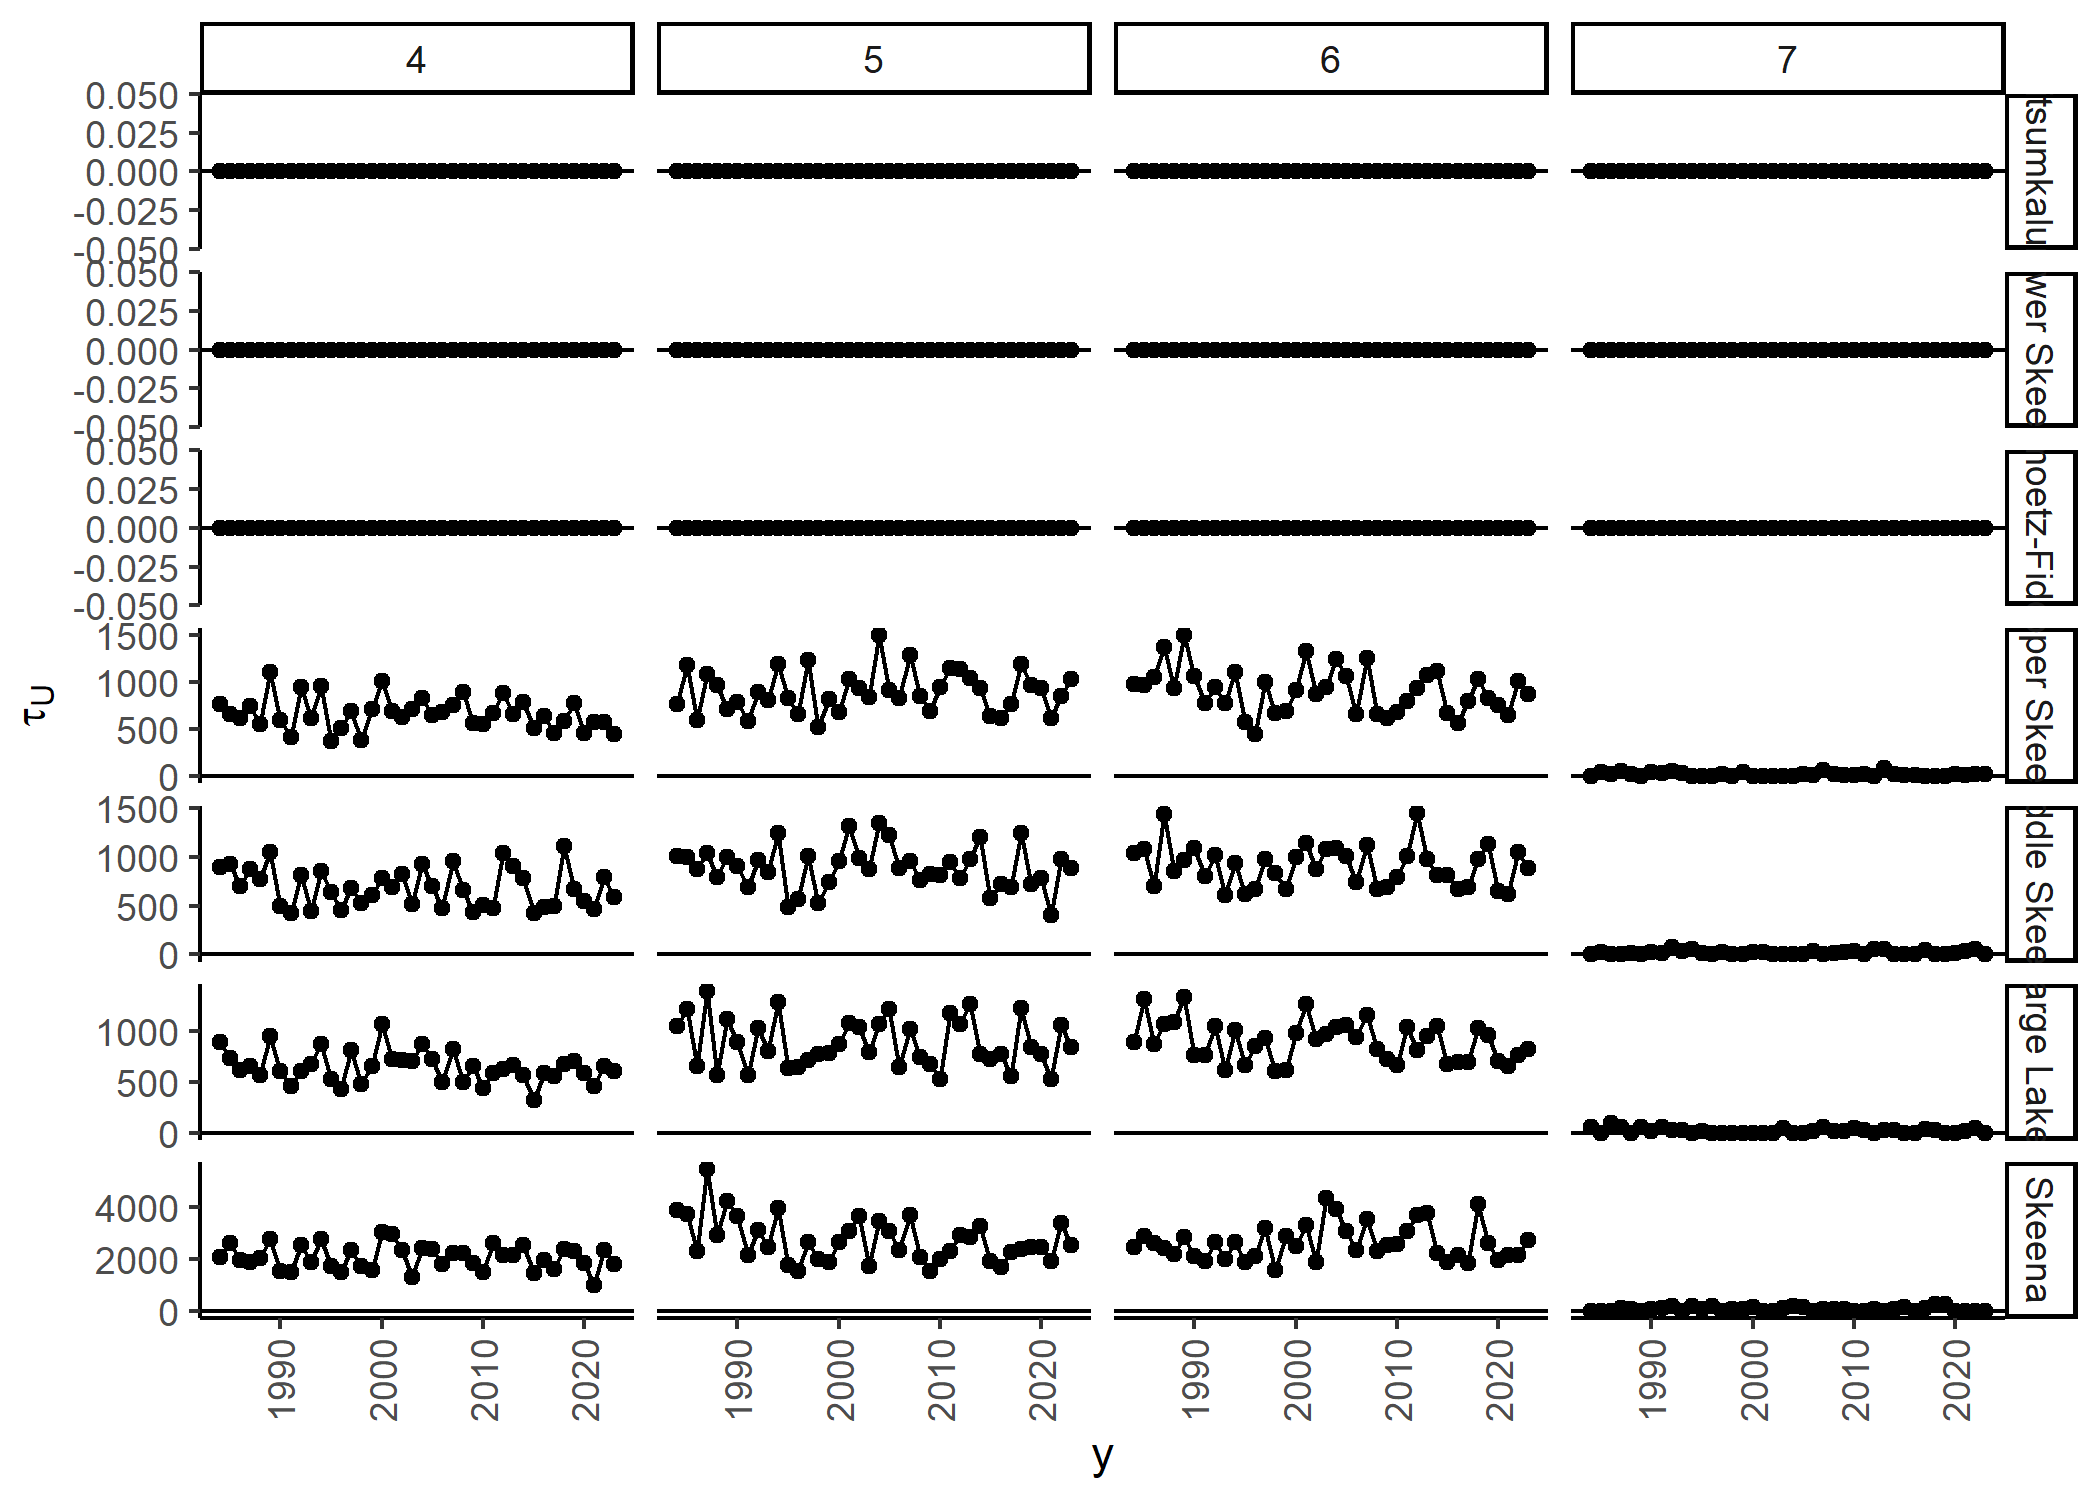
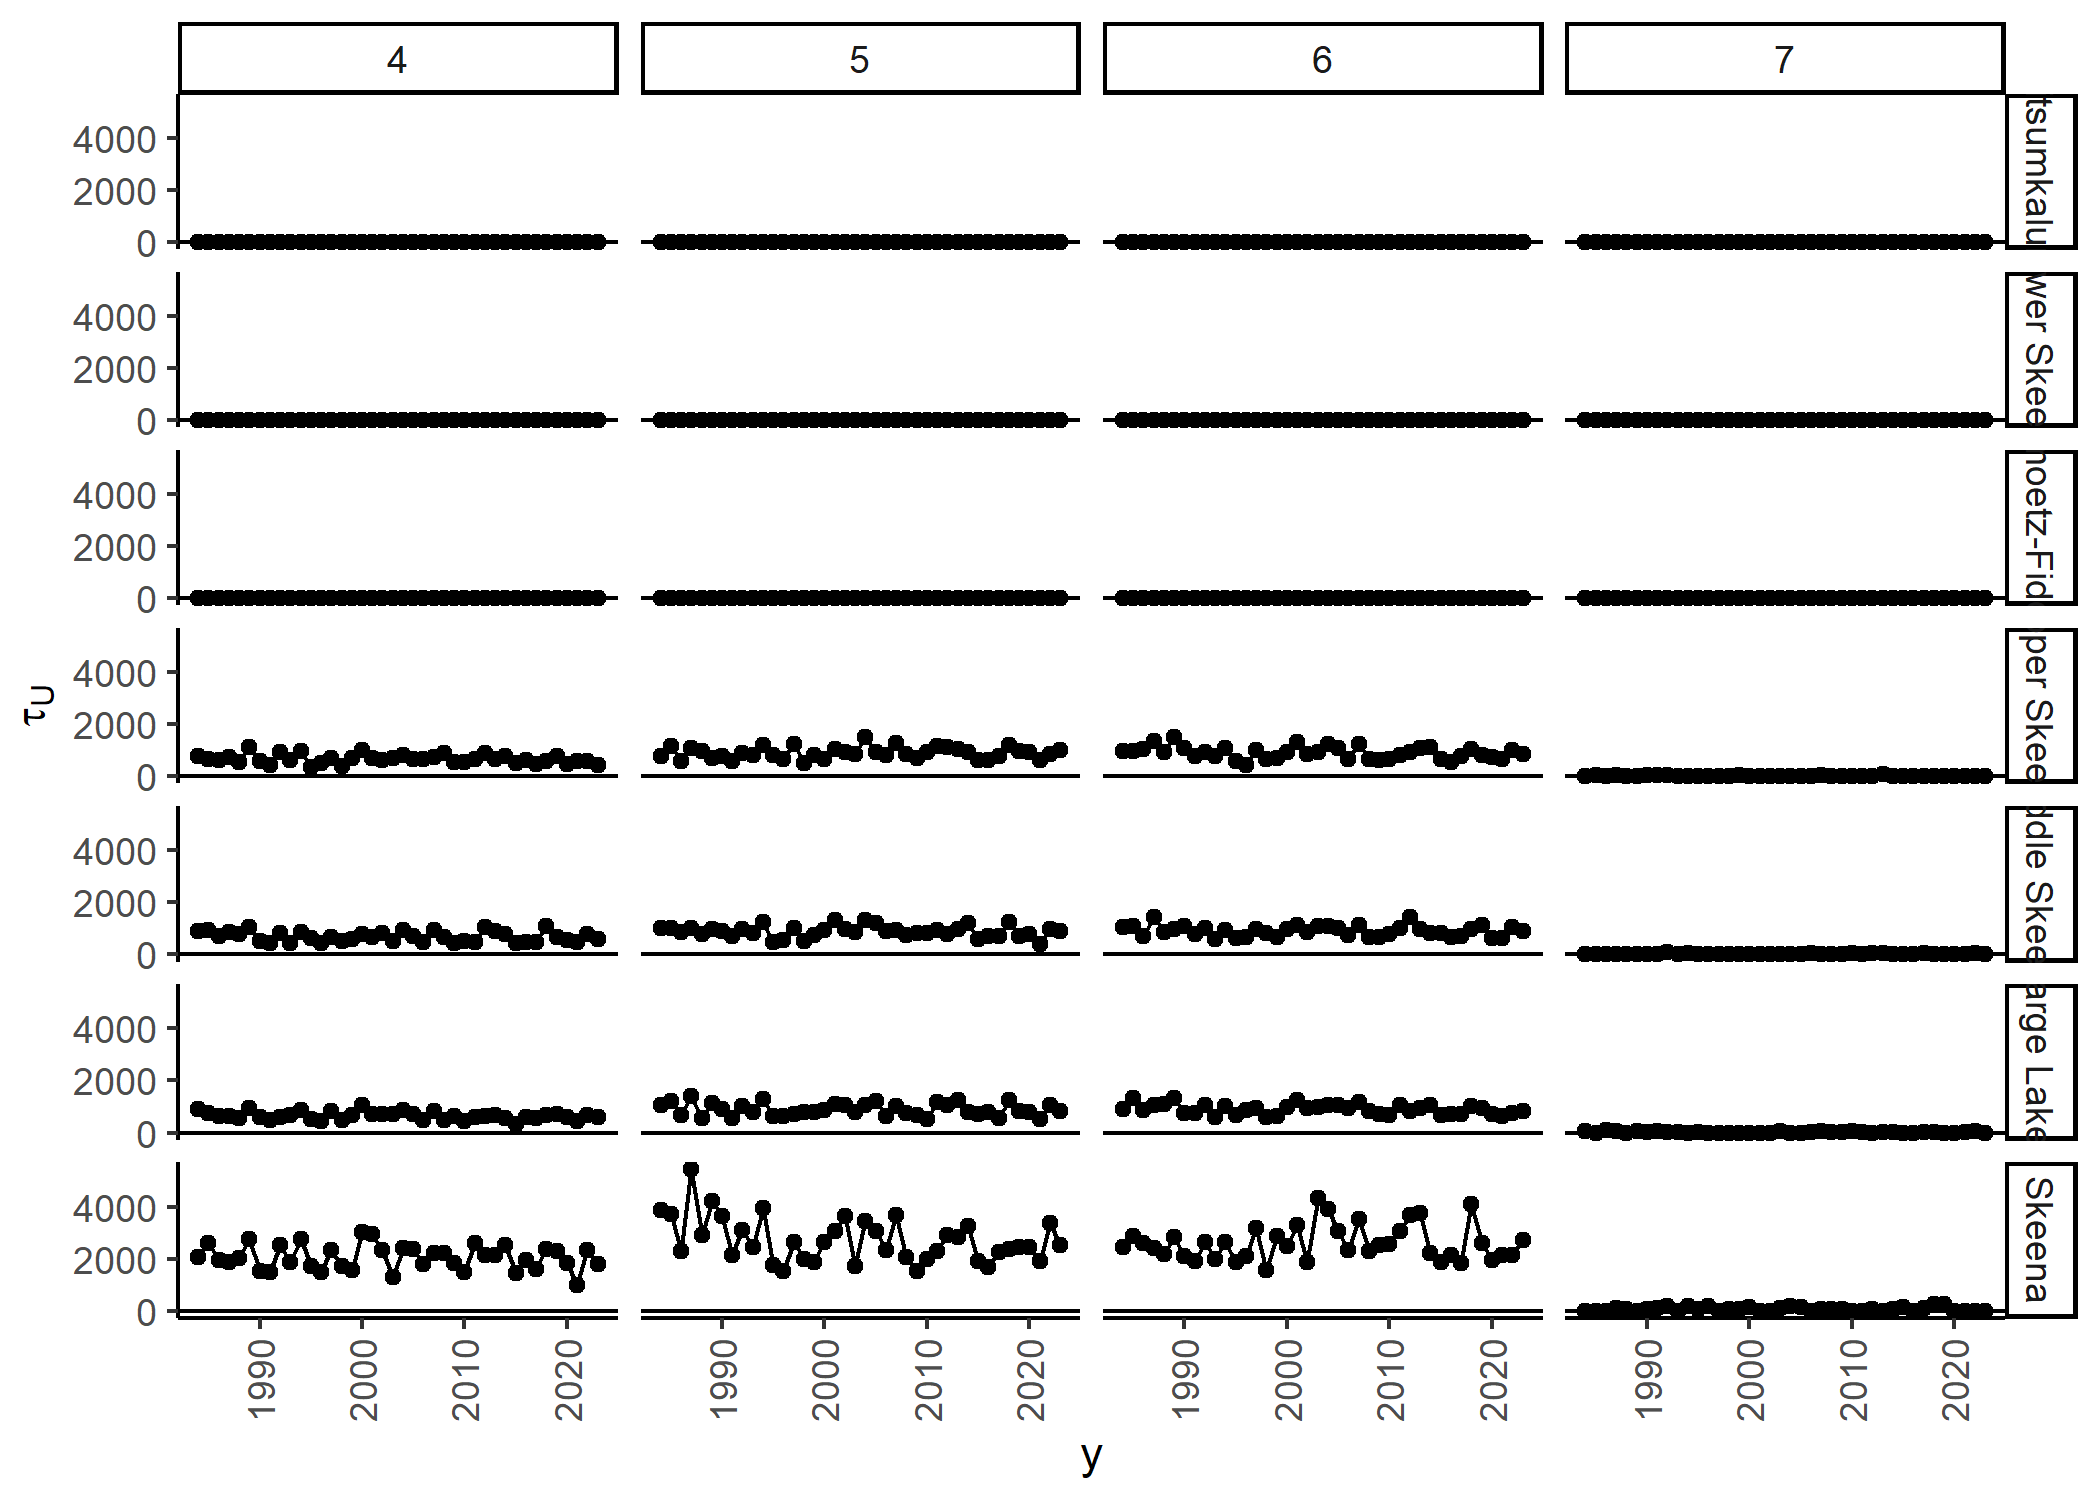
Update readme figs

diff --git a/README.md b/README.md
@@ -221,7 +221,7 @@ p <- get_p(W_star = W_star$W_star, E_star = E_star$E_star)
 ggplot(p$df, aes(y = p, x = y, group = i)) +
   geom_point() +
   geom_line() +
-  facet_grid(i~a, scales="free_y") +
+  facet_grid(i~a) +
   ylab("Proportion wild spawners, p") +
   geom_hline(aes(yintercept=0)) +
   theme_classic()
@@ -265,7 +265,7 @@ ggplot( dtauU, aes(y =tau_U, x = y, group = i)) +
   geom_line() + 
   geom_hline(aes(yintercept=0)) + 
   ylab(TeX("$\\tau_U$")) +
-  facet_grid( i ~ a, scales="free_y") + 
+  facet_grid( i ~ a) + 
   theme_classic() +
   theme(axis.text.x = element_text(angle=90, vjust=0.5))
 ```
